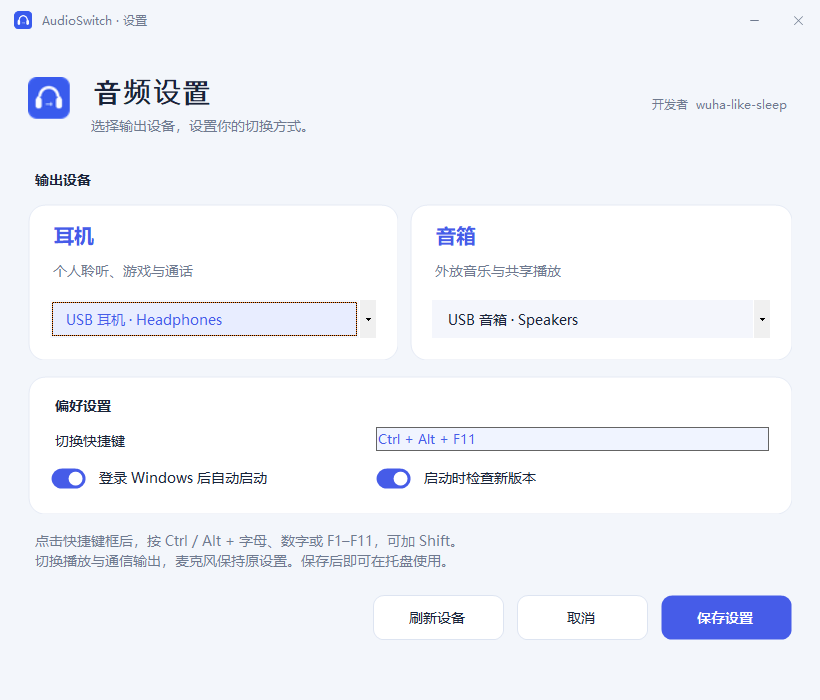
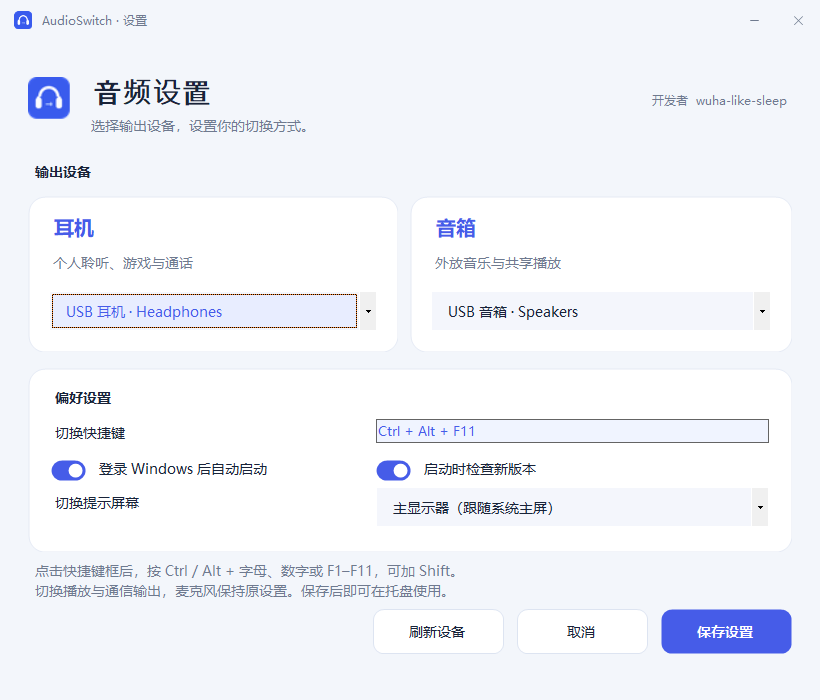
Update downloads and screenshots for fixed-monitor notifications [skip ci]

diff --git a/README.md b/README.md
@@ -10,7 +10,7 @@
 一个快捷键，在专注与外放之间切换。
 
 [![Windows](https://img.shields.io/badge/Windows-10%20%7C%2011-465CE8?logo=windows&logoColor=white)](#安装)
-[![Release](https://img.shields.io/badge/%E4%B8%8B%E8%BD%BD-v0.2.1--preview.2-465CE8)](https://github.com/wuha-like-sleep/AudioSwitch/releases)
+[![Release](https://img.shields.io/badge/%E4%B8%8B%E8%BD%BD-v0.2.1--preview.3-465CE8)](https://github.com/wuha-like-sleep/AudioSwitch/releases)
 [![Build](https://github.com/wuha-like-sleep/AudioSwitch/actions/workflows/build.yml/badge.svg)](https://github.com/wuha-like-sleep/AudioSwitch/actions/workflows/build.yml)
 [![License](https://img.shields.io/badge/License-MIT-22A77A)](LICENSE)
 
@@ -22,7 +22,7 @@
 
 <br />
 
-![AudioSwitch 设置界面](docs/images/settings-0.2.1-preview2.png)
+![AudioSwitch 设置界面](docs/images/settings-0.2.1-preview3.png)
 
 <div align="center"><sub>Windows 实际运行截图 · 展示使用示例设备</sub></div>
 
@@ -33,15 +33,19 @@
 
 **更新下载**
 
-![更新下载界面](docs/images/update-0.2.1-preview2.png)
+![更新下载界面](docs/images/update-0.2.1-preview3.png)
 
 **版本检查结果**
 
-![版本提示界面](docs/images/dialog-0.2.1-preview2.png)
+![版本提示界面](docs/images/dialog-0.2.1-preview3.png)
+
+**切换提示**
+
+![切换提示](docs/images/toast-0.2.1-preview3.png)
 
 **安装向导**
 
-![安装向导](docs/images/installer-0.2.1-preview2.png)
+![安装向导](docs/images/installer-0.2.1-preview3.png)
 
 </details>
 
@@ -49,7 +53,7 @@
 
 | 一键切换 | 按你的习惯 | 保持专注 |
 | :--- | :--- | :--- |
-| 托盘点击或全局快捷键，在耳机与音箱之间切换。 | 自定义快捷键，分别记住两台输出设备。 | 切换提示不抢焦点、不拦截鼠标操作。 |
+| 托盘点击或全局快捷键，在耳机与音箱之间切换。 | 自定义快捷键，分别记住两台输出设备。 | 切换提示可固定到指定屏幕，不抢焦点、不拦截鼠标。 |
 | **登录即用** | **更新更方便** | **轻量安装** |
 | 可选开机自启动，登录后安静地留在托盘。 | 检查新版本、查看说明、下载安装包并校验。 | 当前用户安装，无需管理员权限，自带运行组件。 |
 
@@ -59,9 +63,9 @@
 
 | 你的电脑 | 下载 |
 | :--- | :--- |
-| Intel / AMD 64 位电脑 · 大多数用户选择此项 | **[Windows x64](https://github.com/wuha-like-sleep/AudioSwitch/releases/download/v0.2.1-preview.2/AudioSwitch-Setup-win-x64.exe)** |
-| Windows ARM64 电脑 | [Windows ARM64](https://github.com/wuha-like-sleep/AudioSwitch/releases/download/v0.2.1-preview.2/AudioSwitch-Setup-win-arm64.exe) |
-| Windows 10 32 位电脑 | [Windows x86](https://github.com/wuha-like-sleep/AudioSwitch/releases/download/v0.2.1-preview.2/AudioSwitch-Setup-win-x86.exe) |
+| Intel / AMD 64 位电脑 · 大多数用户选择此项 | **[Windows x64](https://github.com/wuha-like-sleep/AudioSwitch/releases/download/v0.2.1-preview.3/AudioSwitch-Setup-win-x64.exe)** |
+| Windows ARM64 电脑 | [Windows ARM64](https://github.com/wuha-like-sleep/AudioSwitch/releases/download/v0.2.1-preview.3/AudioSwitch-Setup-win-arm64.exe) |
+| Windows 10 32 位电脑 | [Windows x86](https://github.com/wuha-like-sleep/AudioSwitch/releases/download/v0.2.1-preview.3/AudioSwitch-Setup-win-x86.exe) |
 
 运行安装向导，选择安装位置、自启动和桌面快捷方式。程序默认安装到当前用户目录，安装完成后从开始菜单打开 **AudioSwitch**。
 
@@ -76,6 +80,8 @@
 程序在系统托盘运行，图标可能位于 Windows 的隐藏图标区域。再次修改设备、快捷键和自启动选项时，从托盘打开设置。
 
 ## 用起来需要知道的事
+
+**关于多屏提示。** 设置页的“切换提示屏幕”默认跟随系统主屏，也可指定某一块显示器。屏幕选择会保存；指定屏幕断开时临时回退主屏，保留原选择。Windows 若重新编号显示器，可刷新并重新选择。
 
 **关于游戏。** 窗口化和无边框全屏是提示窗口的主要使用场景。提示不抢焦点、不拦截鼠标；独占全屏游戏可能遮住桌面提示。游戏或通话软件固定了独立输出时，需要先将其改为“系统默认”。
 
